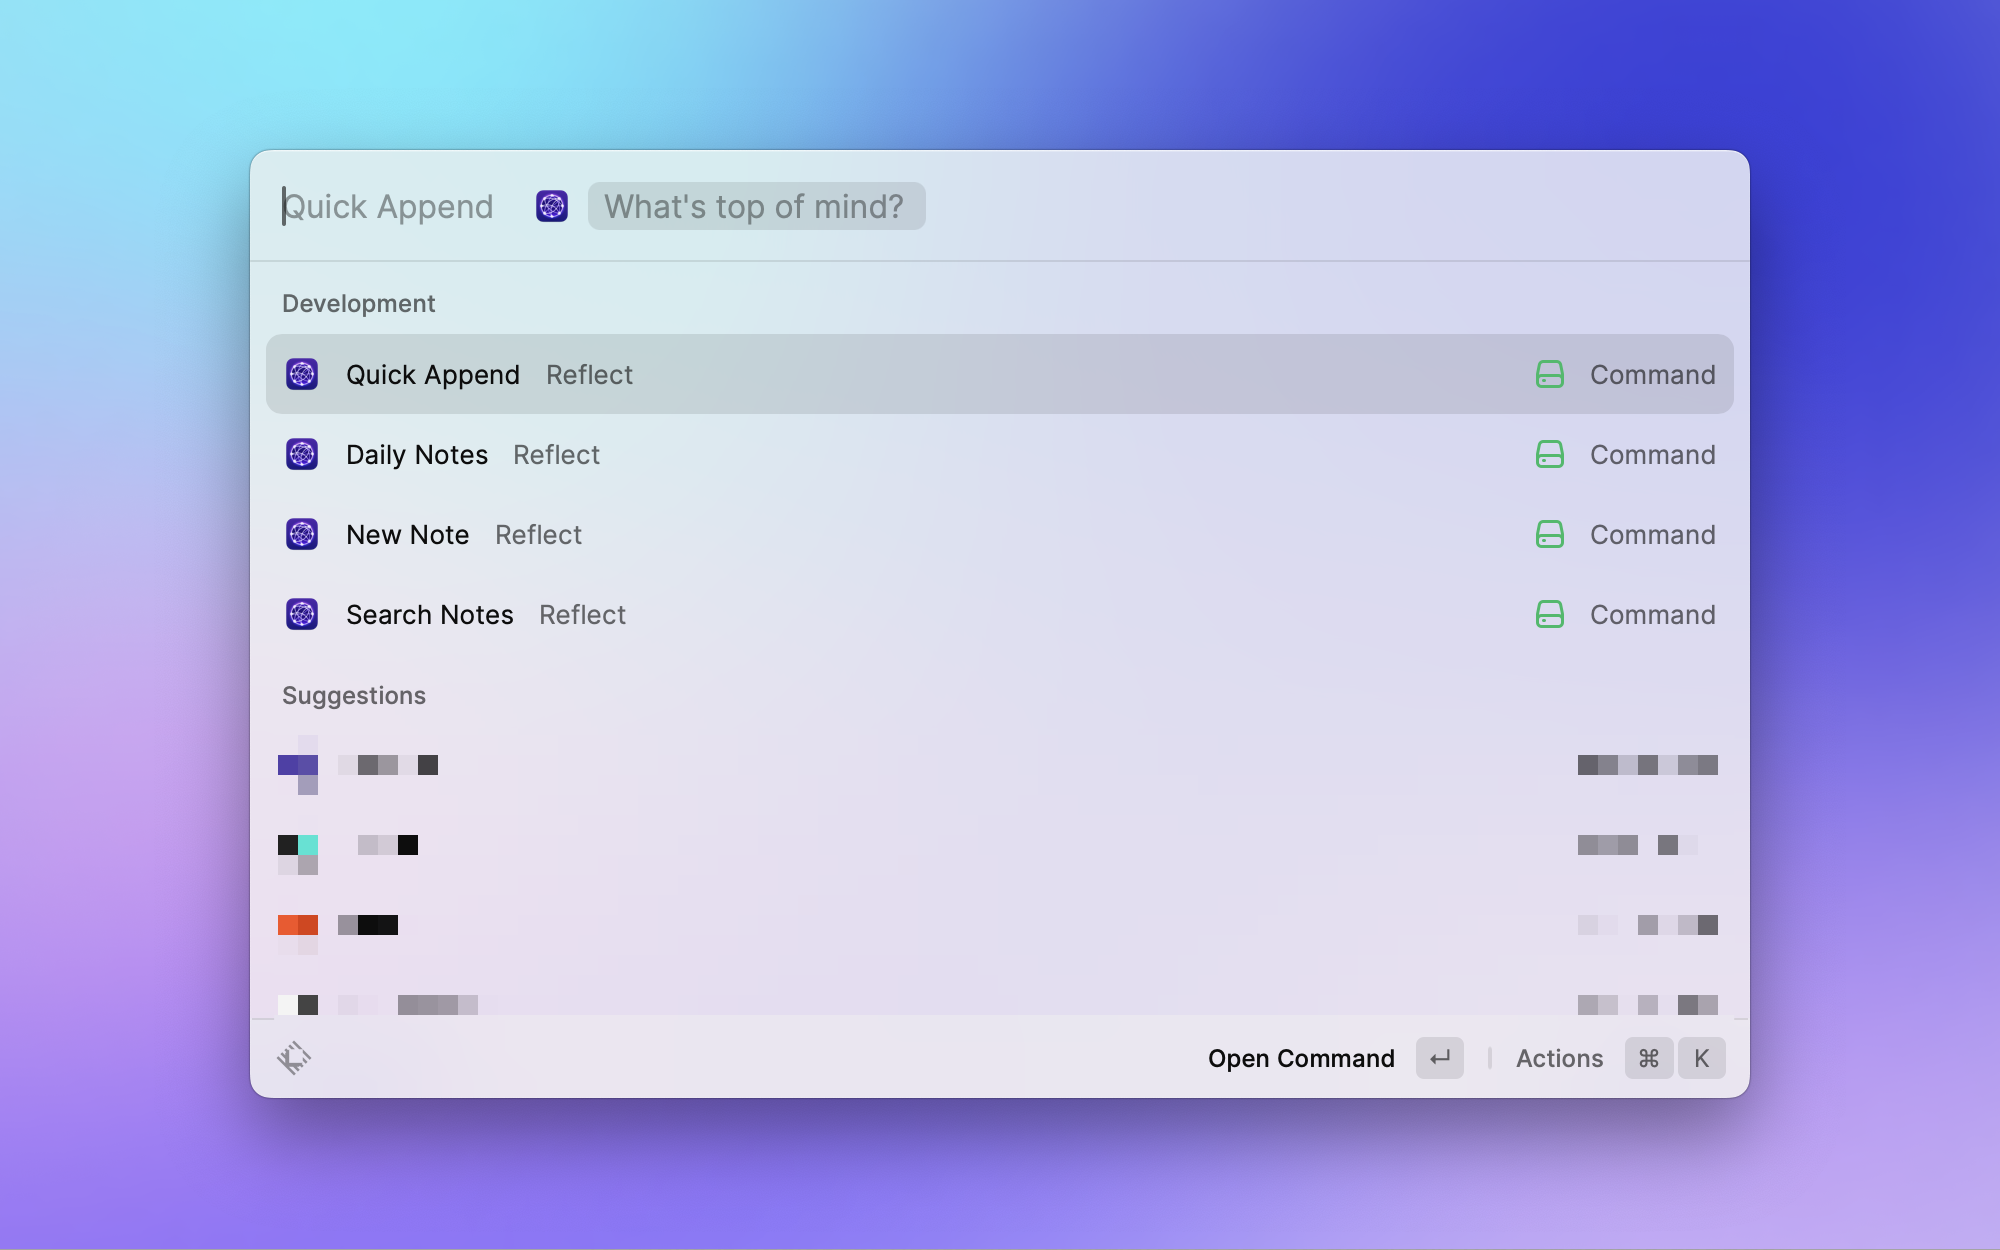
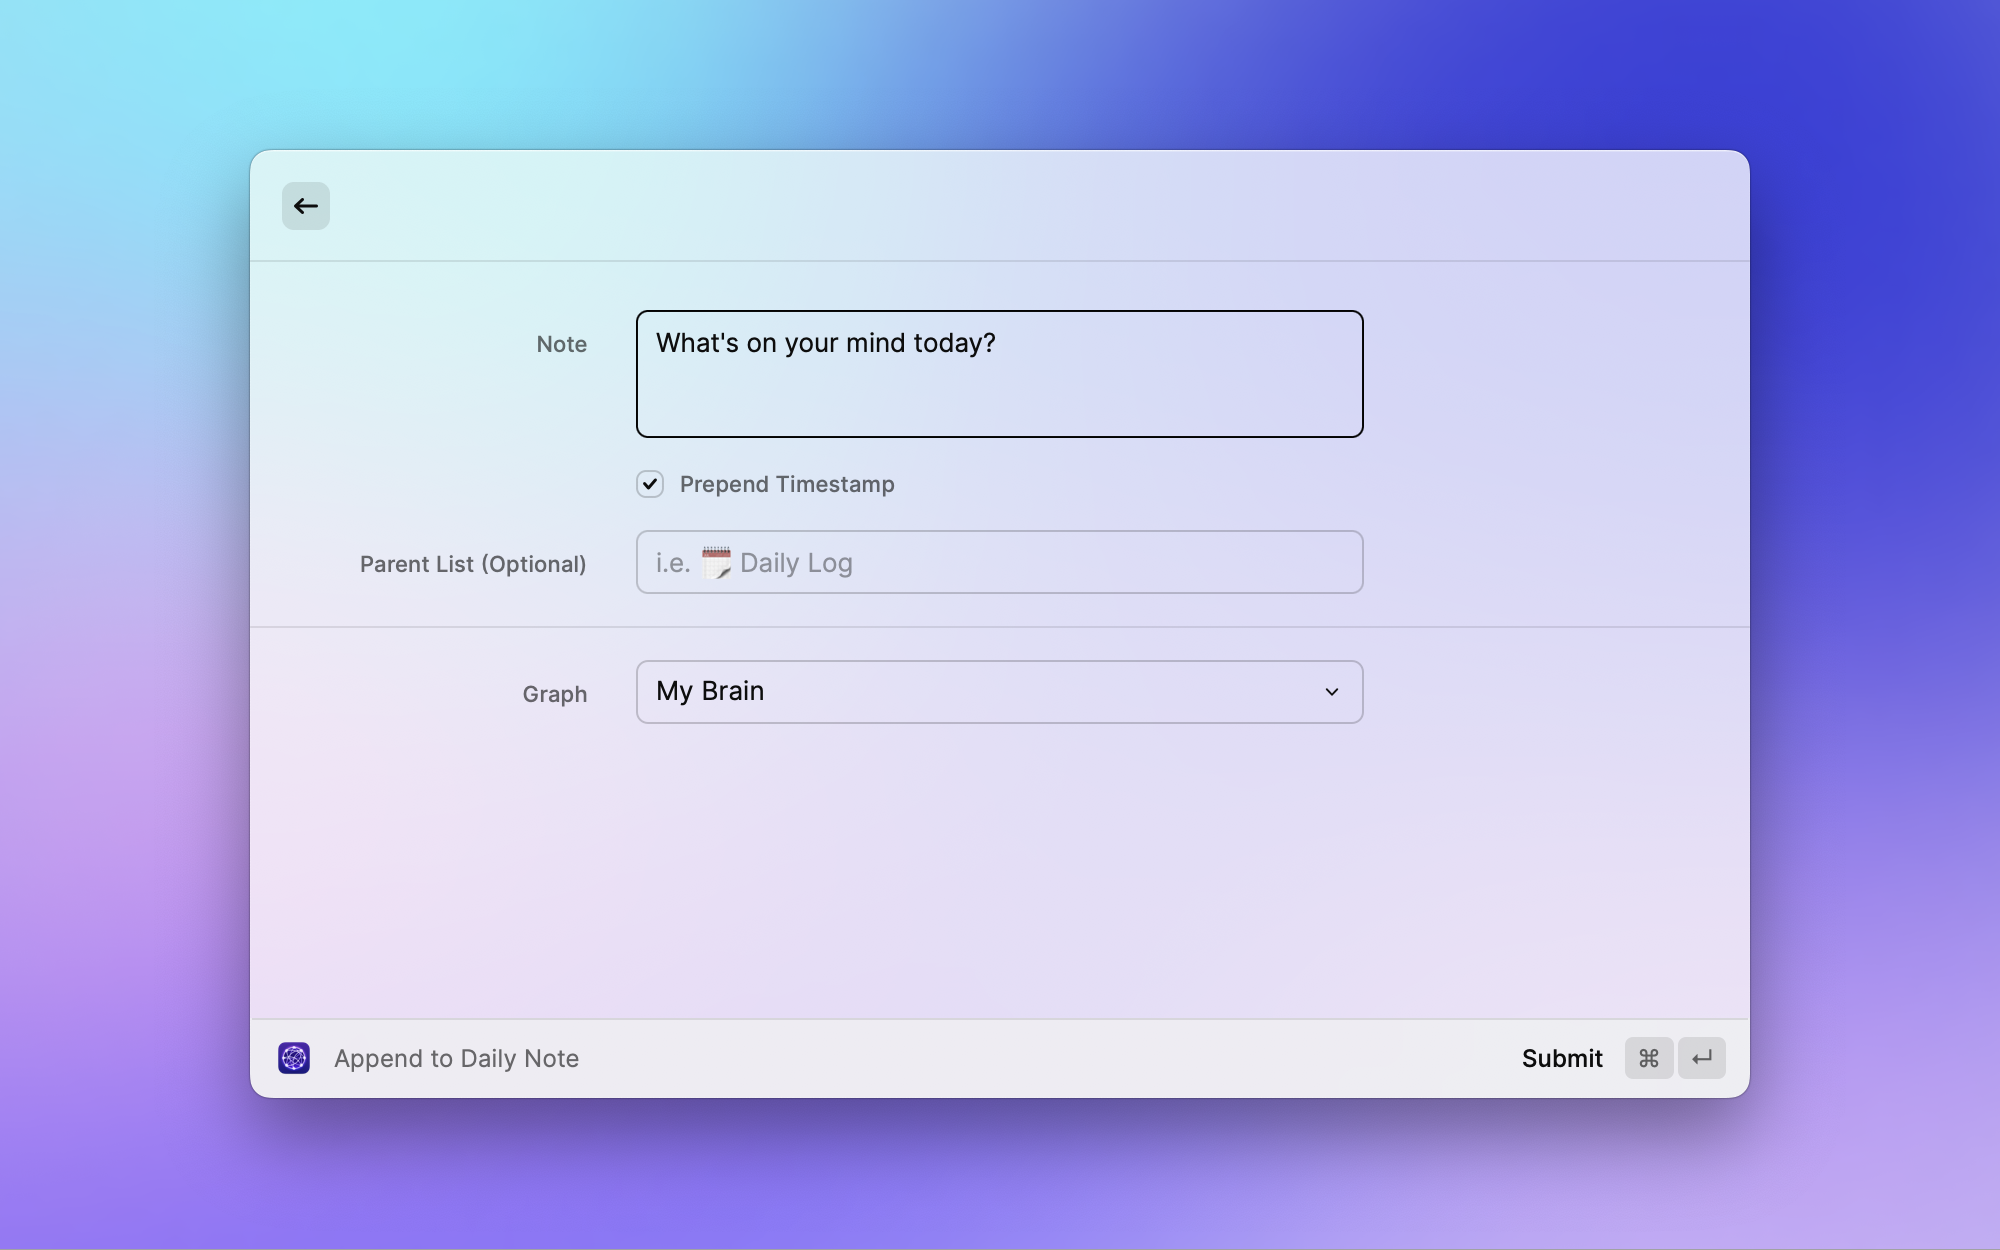
Update README, CHANGELOG, and screenshots for new version

diff --git a/README.md b/README.md
@@ -5,11 +5,6 @@
 ### Append to Daily Note
 Use [Raycast](https://raycast.com) to append to your daily note in [Reflect](https://reflect.app/)
 
-![Append via Command Argument](./metadata/reflect-1.png)
-![Append via Fallback Command](./metadata/reflect-2.png)
-
-## Preferences
-
-### Authorization Token
-
-To use this extension you need to borrow your Authorization Token from the Reflect Chrome Extension. I will add OAuth2 support as soon as Alex gives me my credentials 👨🏽💻.
+![Append via Form](./metadata/reflect-1.png)
+![Quick Append via Command Argument](./metadata/reflect-2.png)
+![Quick Append via Fallback Command](./metadata/reflect-3.png)

diff --git a/CHANGELOG.md b/CHANGELOG.md
@@ -1,8 +1,10 @@
 # Reflect Changelog
 
-## [Unreleased]
-- OAuth Support
-- Append
+## [OAuth & Append] - 2023-05-15
+
+### Added
+- Support for authenticating via OAuth
+- Append Command
 
 ## [Quick Append] - 2023-05-08
 
